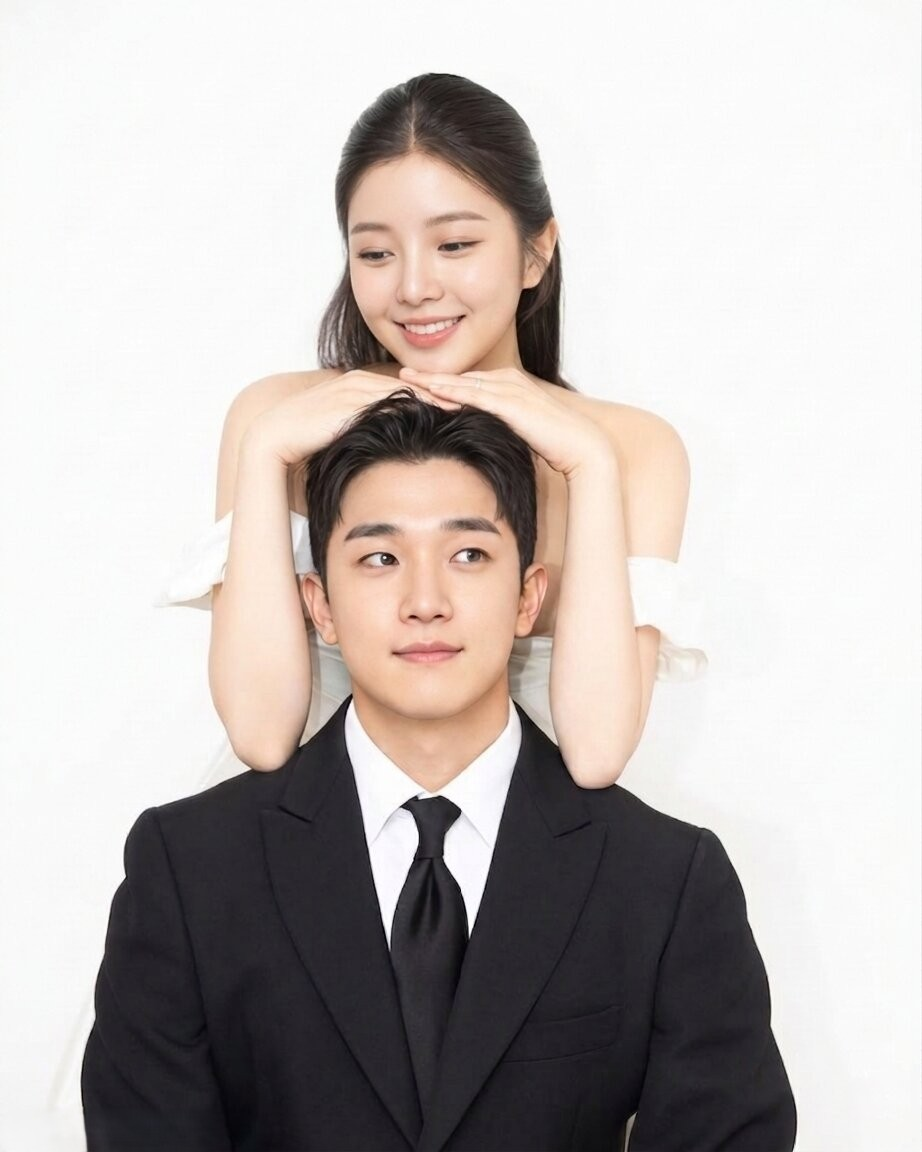
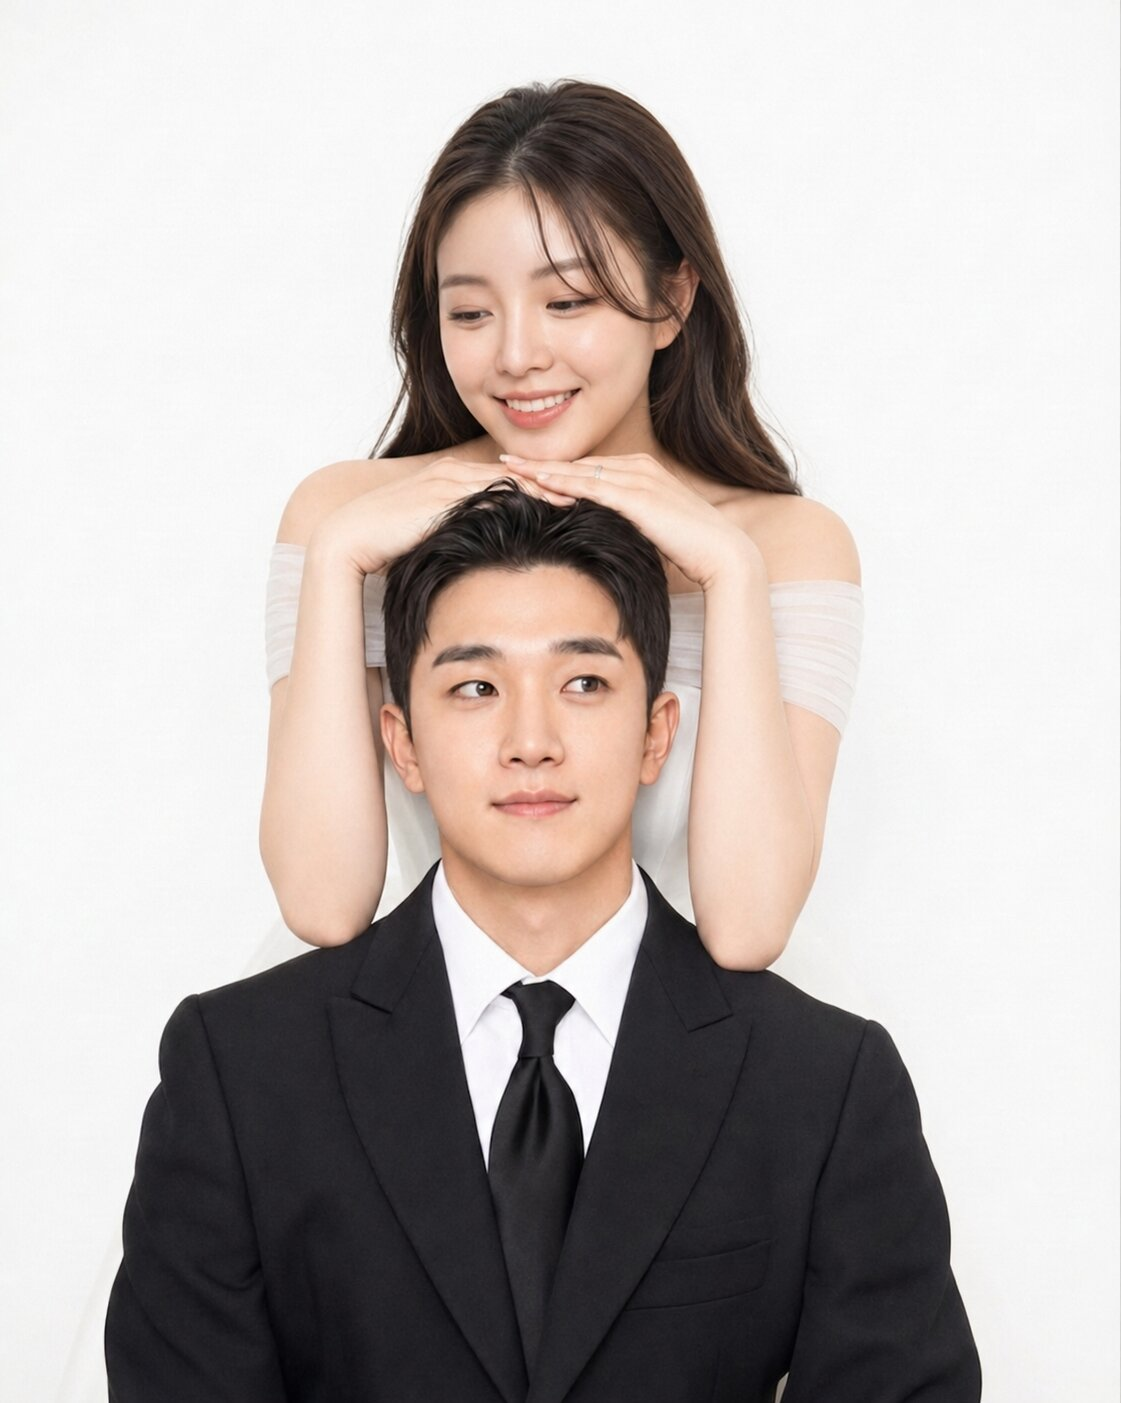
수정

diff --git a/src/app/(marketing)/wedding-snap/page.tsx b/src/app/(marketing)/wedding-snap/page.tsx
@@ -94,8 +94,7 @@ function AboutSnap({ catalogCount }: { catalogCount: number }) {
       <SectionHeading eyebrow="WHAT IS IT" title="AI 웨딩스냅이란?" />
       <div className="flex flex-col gap-3 rounded-2xl border border-[var(--wd-line)] bg-[var(--wd-paper)] p-5 text-[14px] leading-[1.75] text-[var(--wd-mute)]">
         <p>
-          <strong className="text-[var(--wd-ink)]">셀카</strong>(각자 1장 또는
-          정면·좌·우 3장) 또는{' '}
+          <strong className="text-[var(--wd-ink)]">셀카</strong> 또는{' '}
           <strong className="text-[var(--wd-ink)]">커플사진 1장</strong>만 올리면,
           카탈로그 컷의 의상·배경·구도는 그대로 두고{' '}
           <strong className="text-[var(--wd-ink)]">얼굴·체형만 두 사람으로</strong>{' '}
@@ -103,11 +102,9 @@ function AboutSnap({ catalogCount }: { catalogCount: number }) {
         </p>
         <p>
           셀카 모드는 결제 후 첫 앵커(후보 4장 中 1장 선택)가{' '}
-          <span className="text-emerald-700">무료</span>. 이후{' '}
-          {catalogCountLabel(catalogCount)} 카탈로그에서 원하는 컷을{' '}
+          <span className="text-emerald-700">무료</span>. 이후 카탈로그에서 원하는 컷을{' '}
           <strong className="text-[var(--wd-ink)]">1장당 크레딧 1개</strong>로
-          만들고, 결과는 마이페이지에 자동 저장돼요. 재생성은 패키지별 무료 횟수(
-          {freeRegenSummary()}) 안에서 무료, 이후 1크레딧.
+          만들고, 결과는 마이페이지에 자동 저장돼요. 재생성은 패키지별 무료 횟수 안에서 무료, 이후 1크레딧.
         </p>
         <p className="text-[12.5px] text-[var(--wd-mute)]">
           ※ 패키지 가격·크레딧 비교는{' '}
@@ -123,7 +120,7 @@ function AboutSnap({ catalogCount }: { catalogCount: number }) {
 
 function HowItWorks({ catalogCount }: { catalogCount: number }) {
   const steps = [
-    { n: 1, title: '신랑·신부 셀카 업로드', body: '정면 클로즈업 1장씩. 30초면 끝.' },
+    { n: 1, title: '신랑·신부 셀카 업로드', body: '정면 클로즈업 1장씩.(각자 1장 또는 정면·좌·우 3장) 30초면 끝.' },
     {
       n: 2,
       title: '카탈로그 컷 선택',
